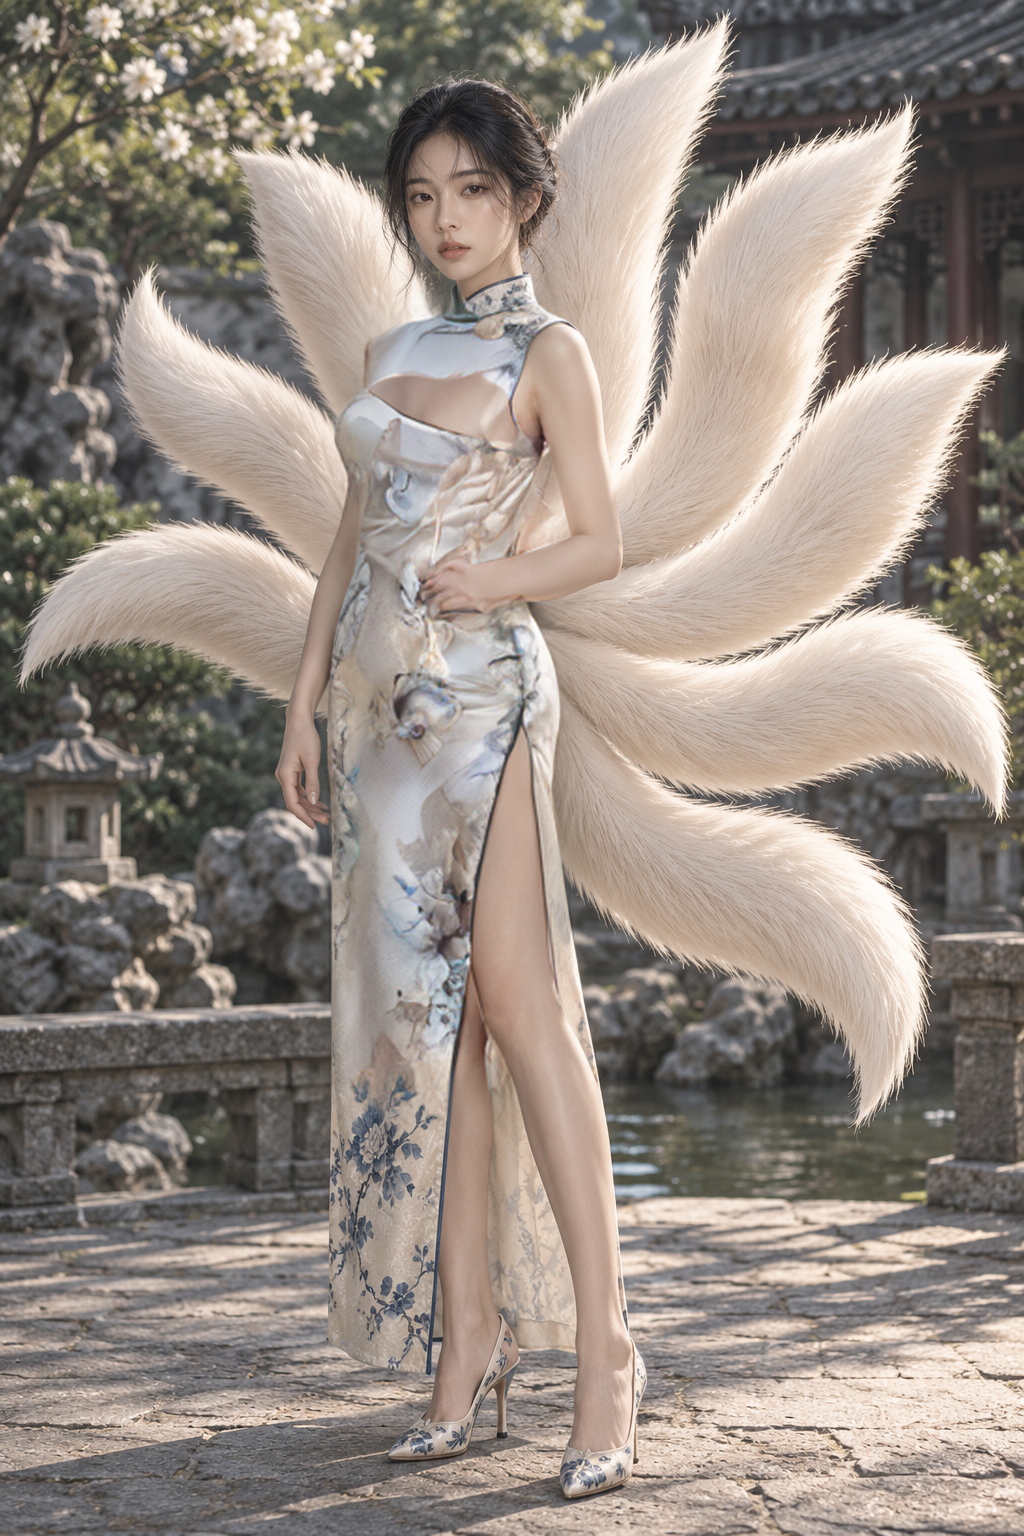
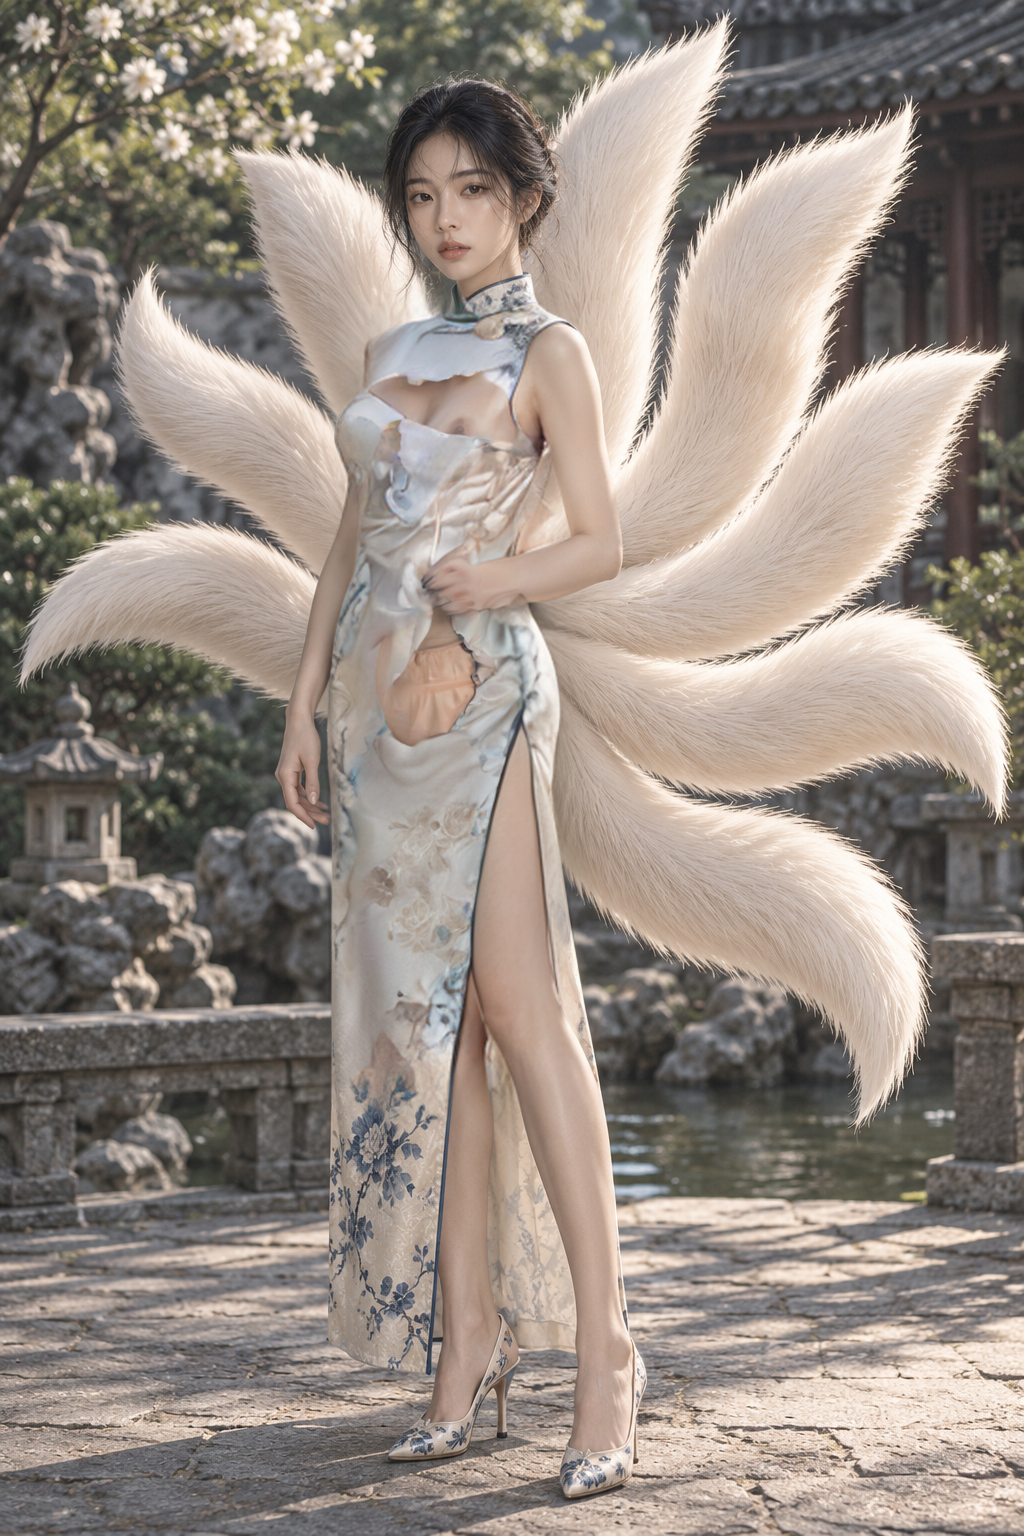
Ship fox/centaur nude and torn stills after Beijing multi-pass.
Lin torn reaches Codex mean 8.875 with empty gates; Elena nude keeps
armor remnants at 8.125. Workflow defaults to no InstantID body passes.

Changed region(s): [[0.3438, 0.375, 0.5, 0.6562], [0.375, 0.2188, 0.4688, 0.3125]]

diff --git a/ai-realistic-comic/library/stills/fox-centaur-embrace/STILL.md b/ai-realistic-comic/library/stills/fox-centaur-embrace/STILL.md
@@ -25,7 +25,7 @@
 
 ## 出图
 
-Codex CLI 成衣。F34 / G09 未开。
+成衣：Codex CLI。F34 / G09 未开。
 
 - 双人：`lin-elena-embrace.png` 1536×1024。打分均分 9.3，硬门空，anatomy 8.8。
 - 林单人：`lin-qipao-nine-tail.png` 1024×1536。更挺拔。Codex 均分 9.0，硬门空；狐尾可辨约八条，第九条可能重叠。
@@ -33,20 +33,22 @@ Codex CLI 成衣。F34 / G09 未开。
 
 ## 去衣 / 破衣破甲（这一张的衣服，不是身体板）
 
-穿衣单人保留。每人两张：`nude`（去衣）和 `torn`（旗袍/铠甲破碎露肤）。狐尾和马身不进蒙版。工作流 `workflows/comfyui/scheme_still_fox_centaur_undress.py --mode both`：社区对齐小洞 crop-and-stitch + `InpaintModelConditioning`。
+穿衣单人保留。每人两张：`nude`（去衣）和 `torn`（旗袍/铠甲破碎露肤）。狐尾和马身不进蒙版。工作流 `workflows/comfyui/scheme_still_fox_centaur_undress.py`：北京 B crop-and-stitch + `InpaintModelConditioning`。
 
 现行日程：
 
-- `nude`：林胸/腹/裙；伊莲胸甲/领/臂/腰；衣服 denoise **0.80** + 收边 **0.42**
-- `torn`：更小的椭圆破洞，denoise **0.78** + 收边；提示写撕破旗袍 / 碎裂铠甲，保留衣甲残骸
-- 大洞 `MAX_CONTENT_FRAC=0.58`；InstantID 吃成衣板 **头肩裁**；失败则该 pass 退回纯 inpaint
+- 小洞 / 椭圆破洞；衣服 denoise **0.88**；收边 **0.40**；`MAX_CONTENT_FRAC=0.52`
+- InstantID 头肩裁已接，但实跑去衣默认 `--no-instantid`（叠 InstantID 易薄纱或双人）
 - 打分对照仍是板心 `ref-face.png`；收留线均分 ≥ 9 且硬门空
+- Codex imagegen 拒绝对成衣板做露点/破甲编辑（safety）；继续只走北京 Comfy
 
 不要丢进 `scheme_b_from_plate.py`。北京 B `359a49a1c3-4cda10df`。F34 / G09 不开。不用 ReActor。
 
-| 人 | 成衣 | 去衣 | 破衣/破甲 |
-| --- | --- | --- | --- |
-| 林 | `lin-qipao-nine-tail.png` | `lin-qipao-nine-tail-nude.png` | `lin-qipao-nine-tail-torn.png` |
-| 伊莲 | `elena-armor-centaur.png` | `elena-armor-centaur-nude.png` | `elena-armor-centaur-torn.png` |
+| 人 | 成衣 | 变体 | 均分 | 硬门 | 说明 |
+| --- | --- | --- | --- | --- | --- |
+| 林 | `lin-qipao-nine-tail.png` | `lin-qipao-nine-tail-torn.png` | **8.875** | 空 | 最接近过门；wardrobe 9，anatomy 8 |
+| 林 | 同上 | `lin-qipao-nine-tail-nude.png` | 5.875–7 | `clothes_remain` | RealVisXL 难彻底褪旗袍 |
+| 伊莲 | `elena-armor-centaur.png` | `elena-armor-centaur-nude.png` | **8.125** | `armor_remain` | 胸甲主体已去；颈/臂/腰甲残留 |
+| 伊莲 | 同上 | `elena-armor-centaur-torn.png` | 7.25–7.5 | `intact_clothes` | 破甲不够、露肤不足 |
 
-上一轮（改工作流前）去衣：林 6.5 / `clothes_remain`；伊莲 8.0 / `armor_remain`。新日程重跑后更新分数。
+未过收留线（均分 ≥ 9 且硬门空）。林破衣差 anatomy 1 分；伊莲去衣差残甲。

diff --git a/ai-realistic-comic/library/stills/fox-centaur-embrace/COMPARE.md b/ai-realistic-comic/library/stills/fox-centaur-embrace/COMPARE.md
@@ -2,14 +2,16 @@
 
 2026-10-06。成衣是 Codex CLI。去衣是北京 B Comfy crop-and-stitch，不是 Scheme B 全身重绘。F34 / G09 未开。打分都是 Codex。
 
-## 总表
+## 总表（2026-10-06 晚，社区改写后多轮北京重跑）
 
-| 人 | 成衣均分 | 成衣硬门 | 去衣均分 | 去衣硬门 | 主要变化 |
+| 人 | 成衣均分 | 变体 | 均分 | 硬门 | 主要变化 |
 | --- | --- | --- | --- | --- | --- |
-| 林晚棠 | 9.0 | 空 | 6.5 | `clothes_remain` | 旗袍变薄纱，胸可见；狐尾还在；大腿前多了一只手 |
-| 伊莲·沃斯 | 8.94 | 空 | 8.0 | `armor_remain` | 上身铠甲去掉；马身还在；领圈、左臂甲、腰甲残留 |
+| 林晚棠 | 9.0 | 破衣 `*-torn.png` | **8.875** | 空 | 胸腹撕裂露肤，残骸保留；差 anatomy≈8→9 |
+| 林晚棠 | 9.0 | 去衣 `*-nude.png` | ≤7 | `clothes_remain` | 旗袍残留 / 躯干纹理失败 |
+| 伊莲·沃斯 | 8.94 | 去衣 `*-nude.png` | **8.125** | `armor_remain` | 胸甲主体已去；颈/臂/腰甲残留 |
+| 伊莲·沃斯 | 8.94 | 破甲 `*-torn.png` | ≤7.5 | `intact_clothes` | 甲片几乎完好，露肤不足 |
 
-两张都没过收留线（均分 ≥ 9 且硬门空）。
+都没过收留线（均分 ≥ 9 且硬门空）。Codex imagegen 拒绝对成衣板做露点编辑。
 
 ## 林晚棠
 
